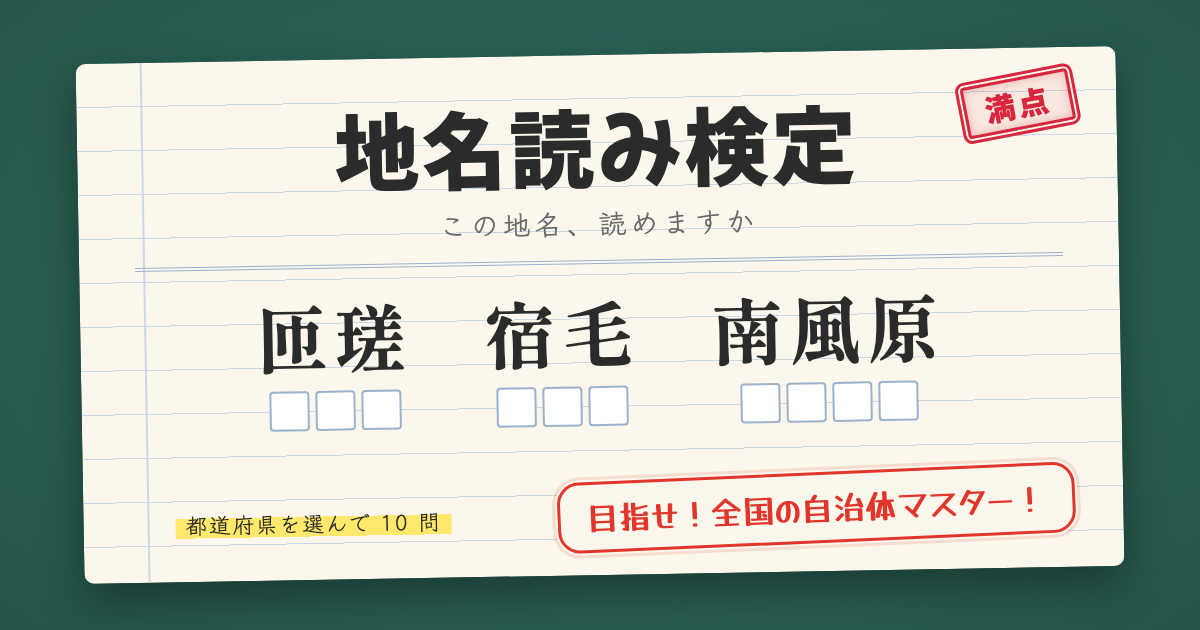
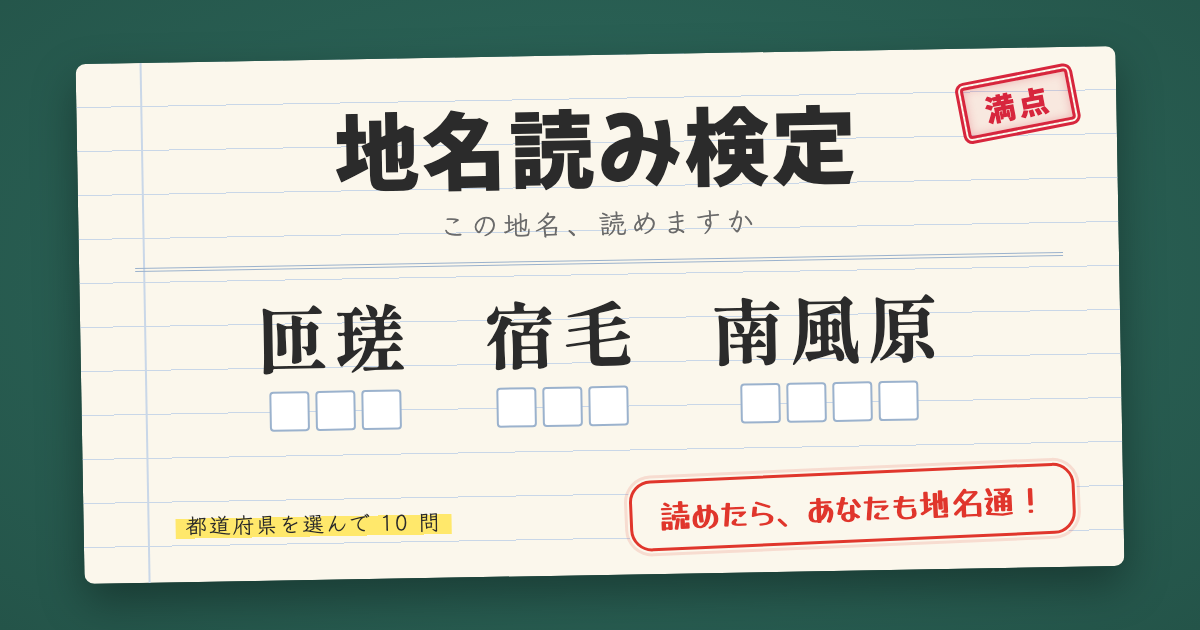
表紙の吹き出しを「読めたら、あなたも地名通！」にする（#72）
「自治体」は「自治体とは？」となりかねない。副題「この地名、読めますか」に答える形にして、
そこそこ知っている人の自負に向ける。OGP 画像も作り直した

Changed region(s): [[0.4625, 0.7238, 0.8942, 0.9048], [0.8633, 0.8143, 0.8942, 0.8444]]

diff --git a/public/theme-preview.html b/public/theme-preview.html
@@ -80,7 +80,7 @@
           <p class="paper__subtitle cover__subtitle">この地名、読めますか</p>
         </header>
 
-        <p class="cover__bubble">目指せ！全国の自治体マスター！</p>
+        <p class="cover__bubble">読めたら、あなたも地名通！</p>
 
         <label class="field cover__field">
           <span class="field__label">氏名</span>

diff --git a/src/screens/Cover.tsx b/src/screens/Cover.tsx
@@ -49,7 +49,7 @@ export default function Cover() {
         </a>
       </div>
 
-      <p className="cover__bubble">目指せ！全国の自治体マスター！</p>
+      <p className="cover__bubble">読めたら、あなたも地名通！</p>
 
       <label className="field cover__field">
         <span className="field__label">氏名</span>

diff --git a/og/og.html b/og/og.html
@@ -224,7 +224,7 @@
         </div>
       </div>
       <p class="note">都道府県を選んで 10 問</p>
-      <p class="bubble">目指せ！全国の自治体マスター！</p>
+      <p class="bubble">読めたら、あなたも地名通！</p>
     </div>
   </body>
 </html>

diff --git a/src/styles/CONTRACT.md b/src/styles/CONTRACT.md
@@ -105,7 +105,7 @@ Dela Gothic One は字幅を詰めた極太デザインで、1.4rem 前後の漢
 | `.answer-hint` | 解答欄の下の案内文。`HiraganaInput` が必ず出す（`aria-describedby` で入力欄と結ぶ） |
 | `.cover` | 表紙の `.paper` に併記する修飾子 |
 | `.cover__title` / `.cover__subtitle` | 表紙の大見出し（`--fs-cover`）と副題。`.paper__title` / `.paper__subtitle` に足す |
-| `.cover__bubble` | 赤ペンの吹き出し（「目指せ！…」）。尻尾は `::before` / `::after` |
+| `.cover__bubble` | 赤ペンの吹き出し（「読めたら、…」）。尻尾は `::before` / `::after` |
 | `.cover__field` | 表紙のニックネーム欄。`.field` に足して中央寄せ・拡大 |
 | `.cover__note` | 氏名欄の下の注記 |
 | `.cover__actions` | 主ボタン「はじめる」の置き場。**表紙の主ボタンは 1 つだけ**（第 3 波 決定 ④） |
